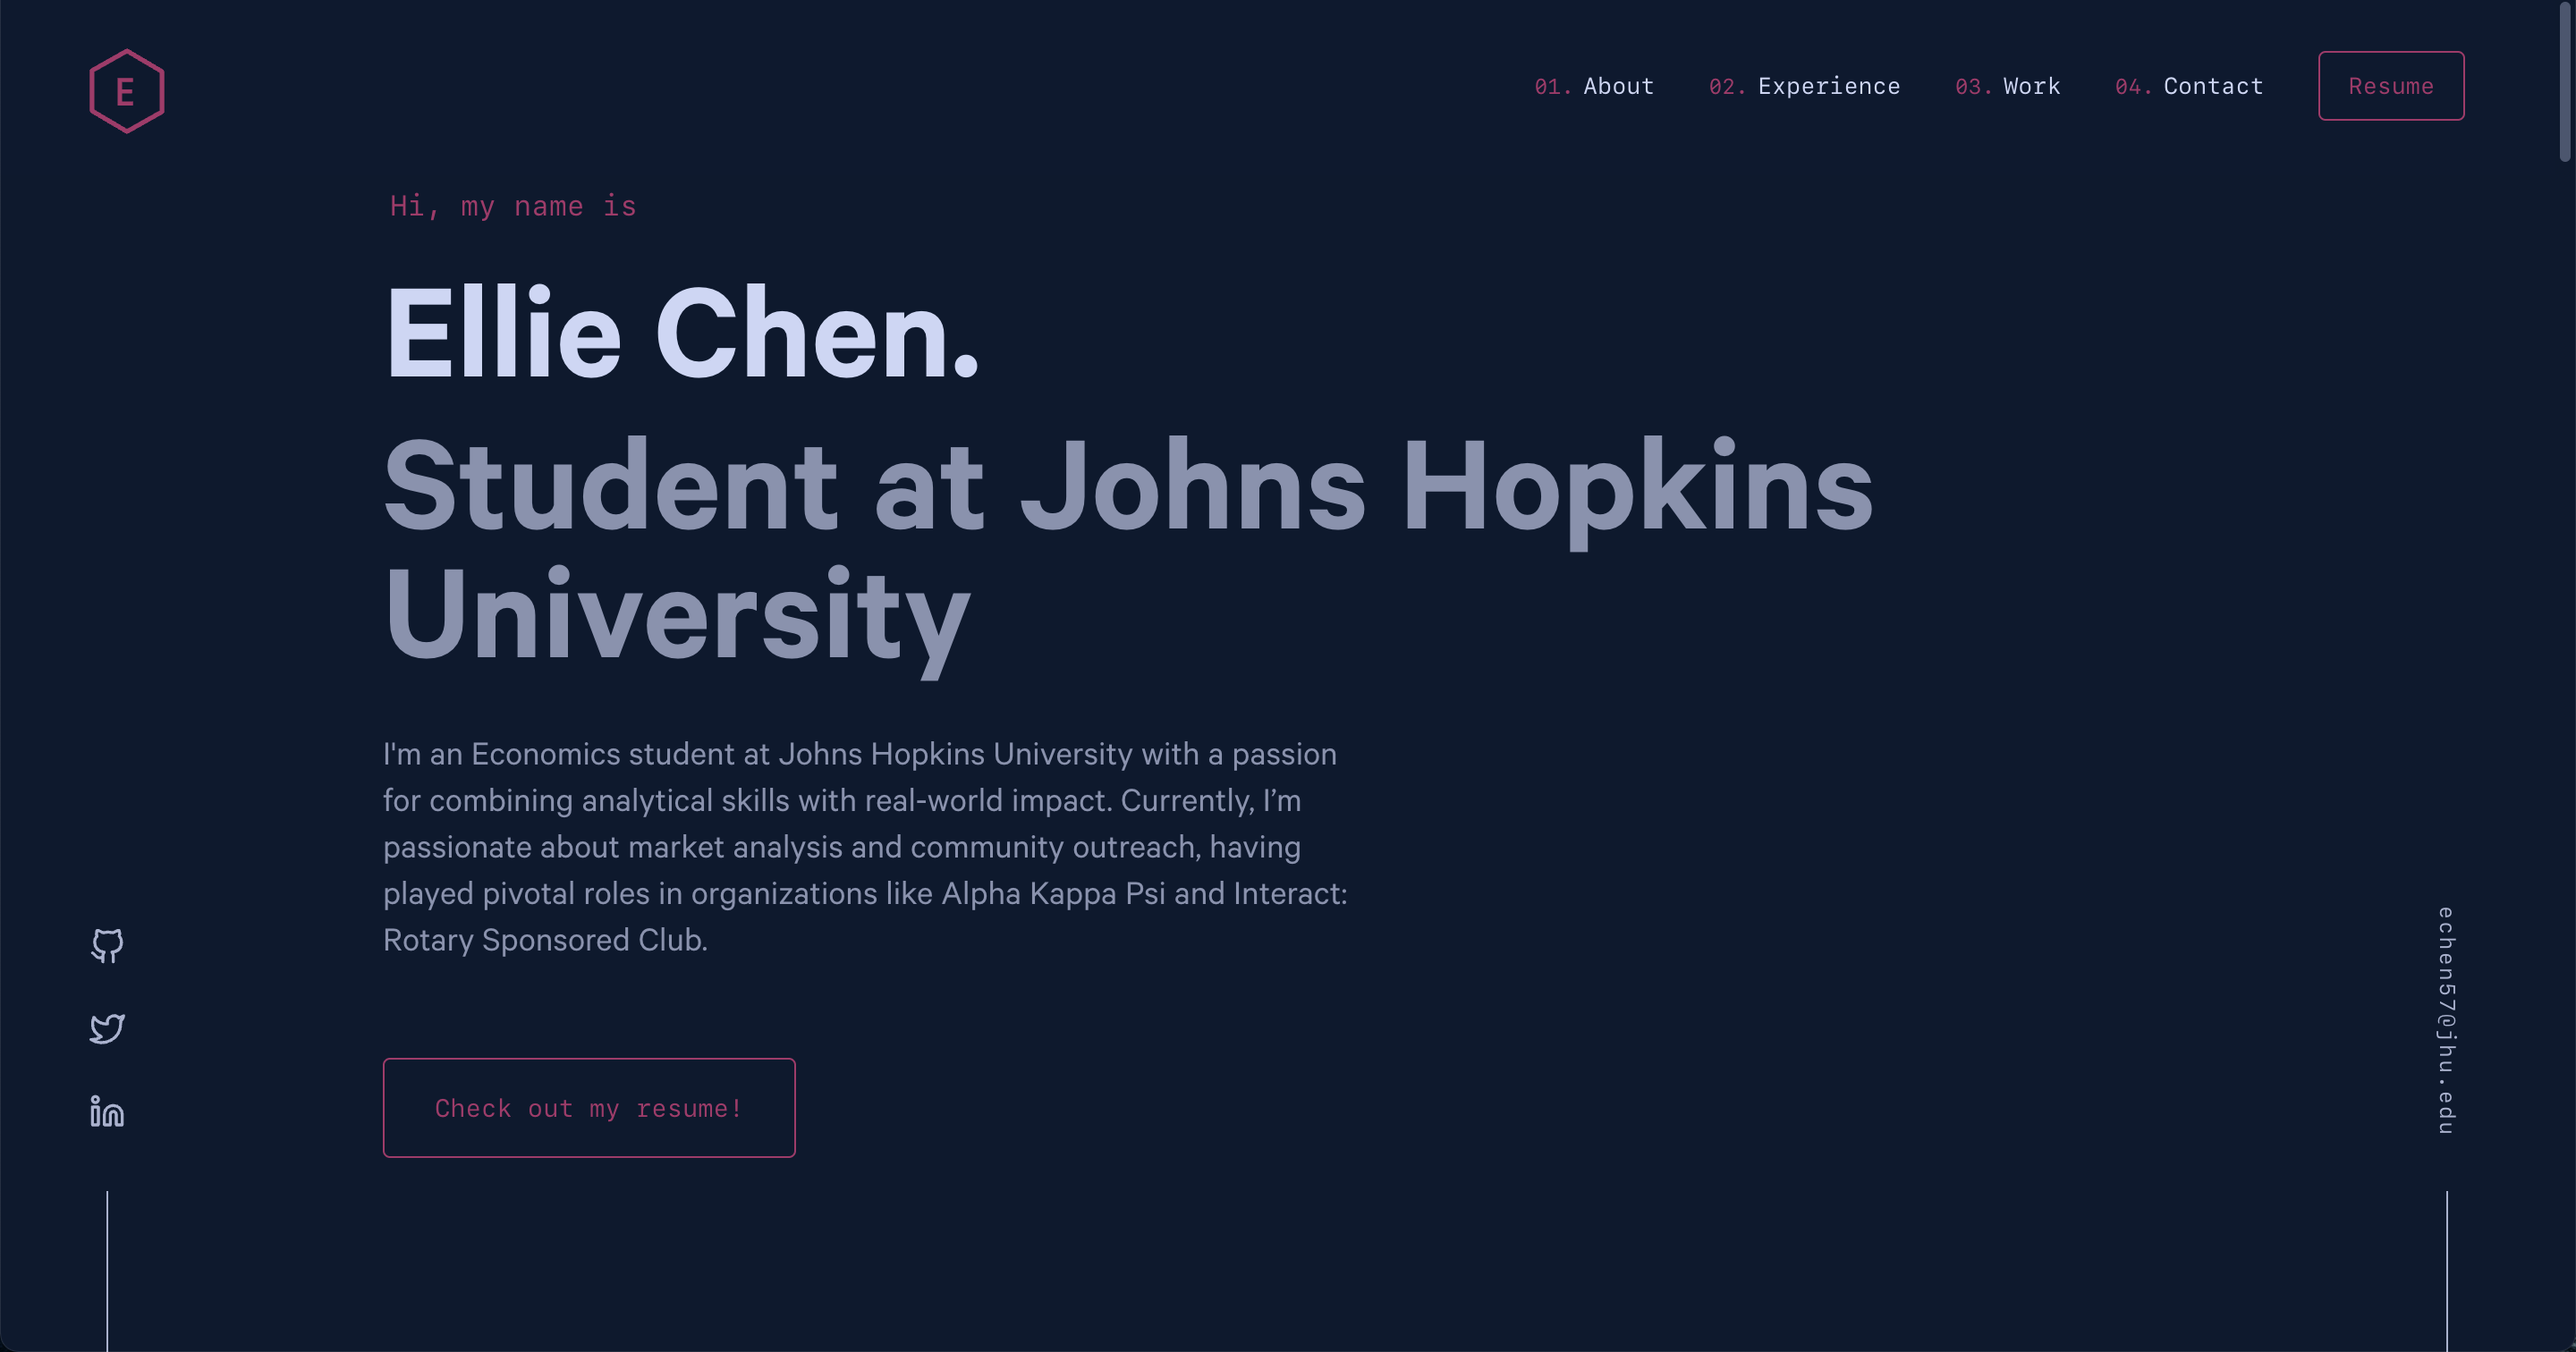
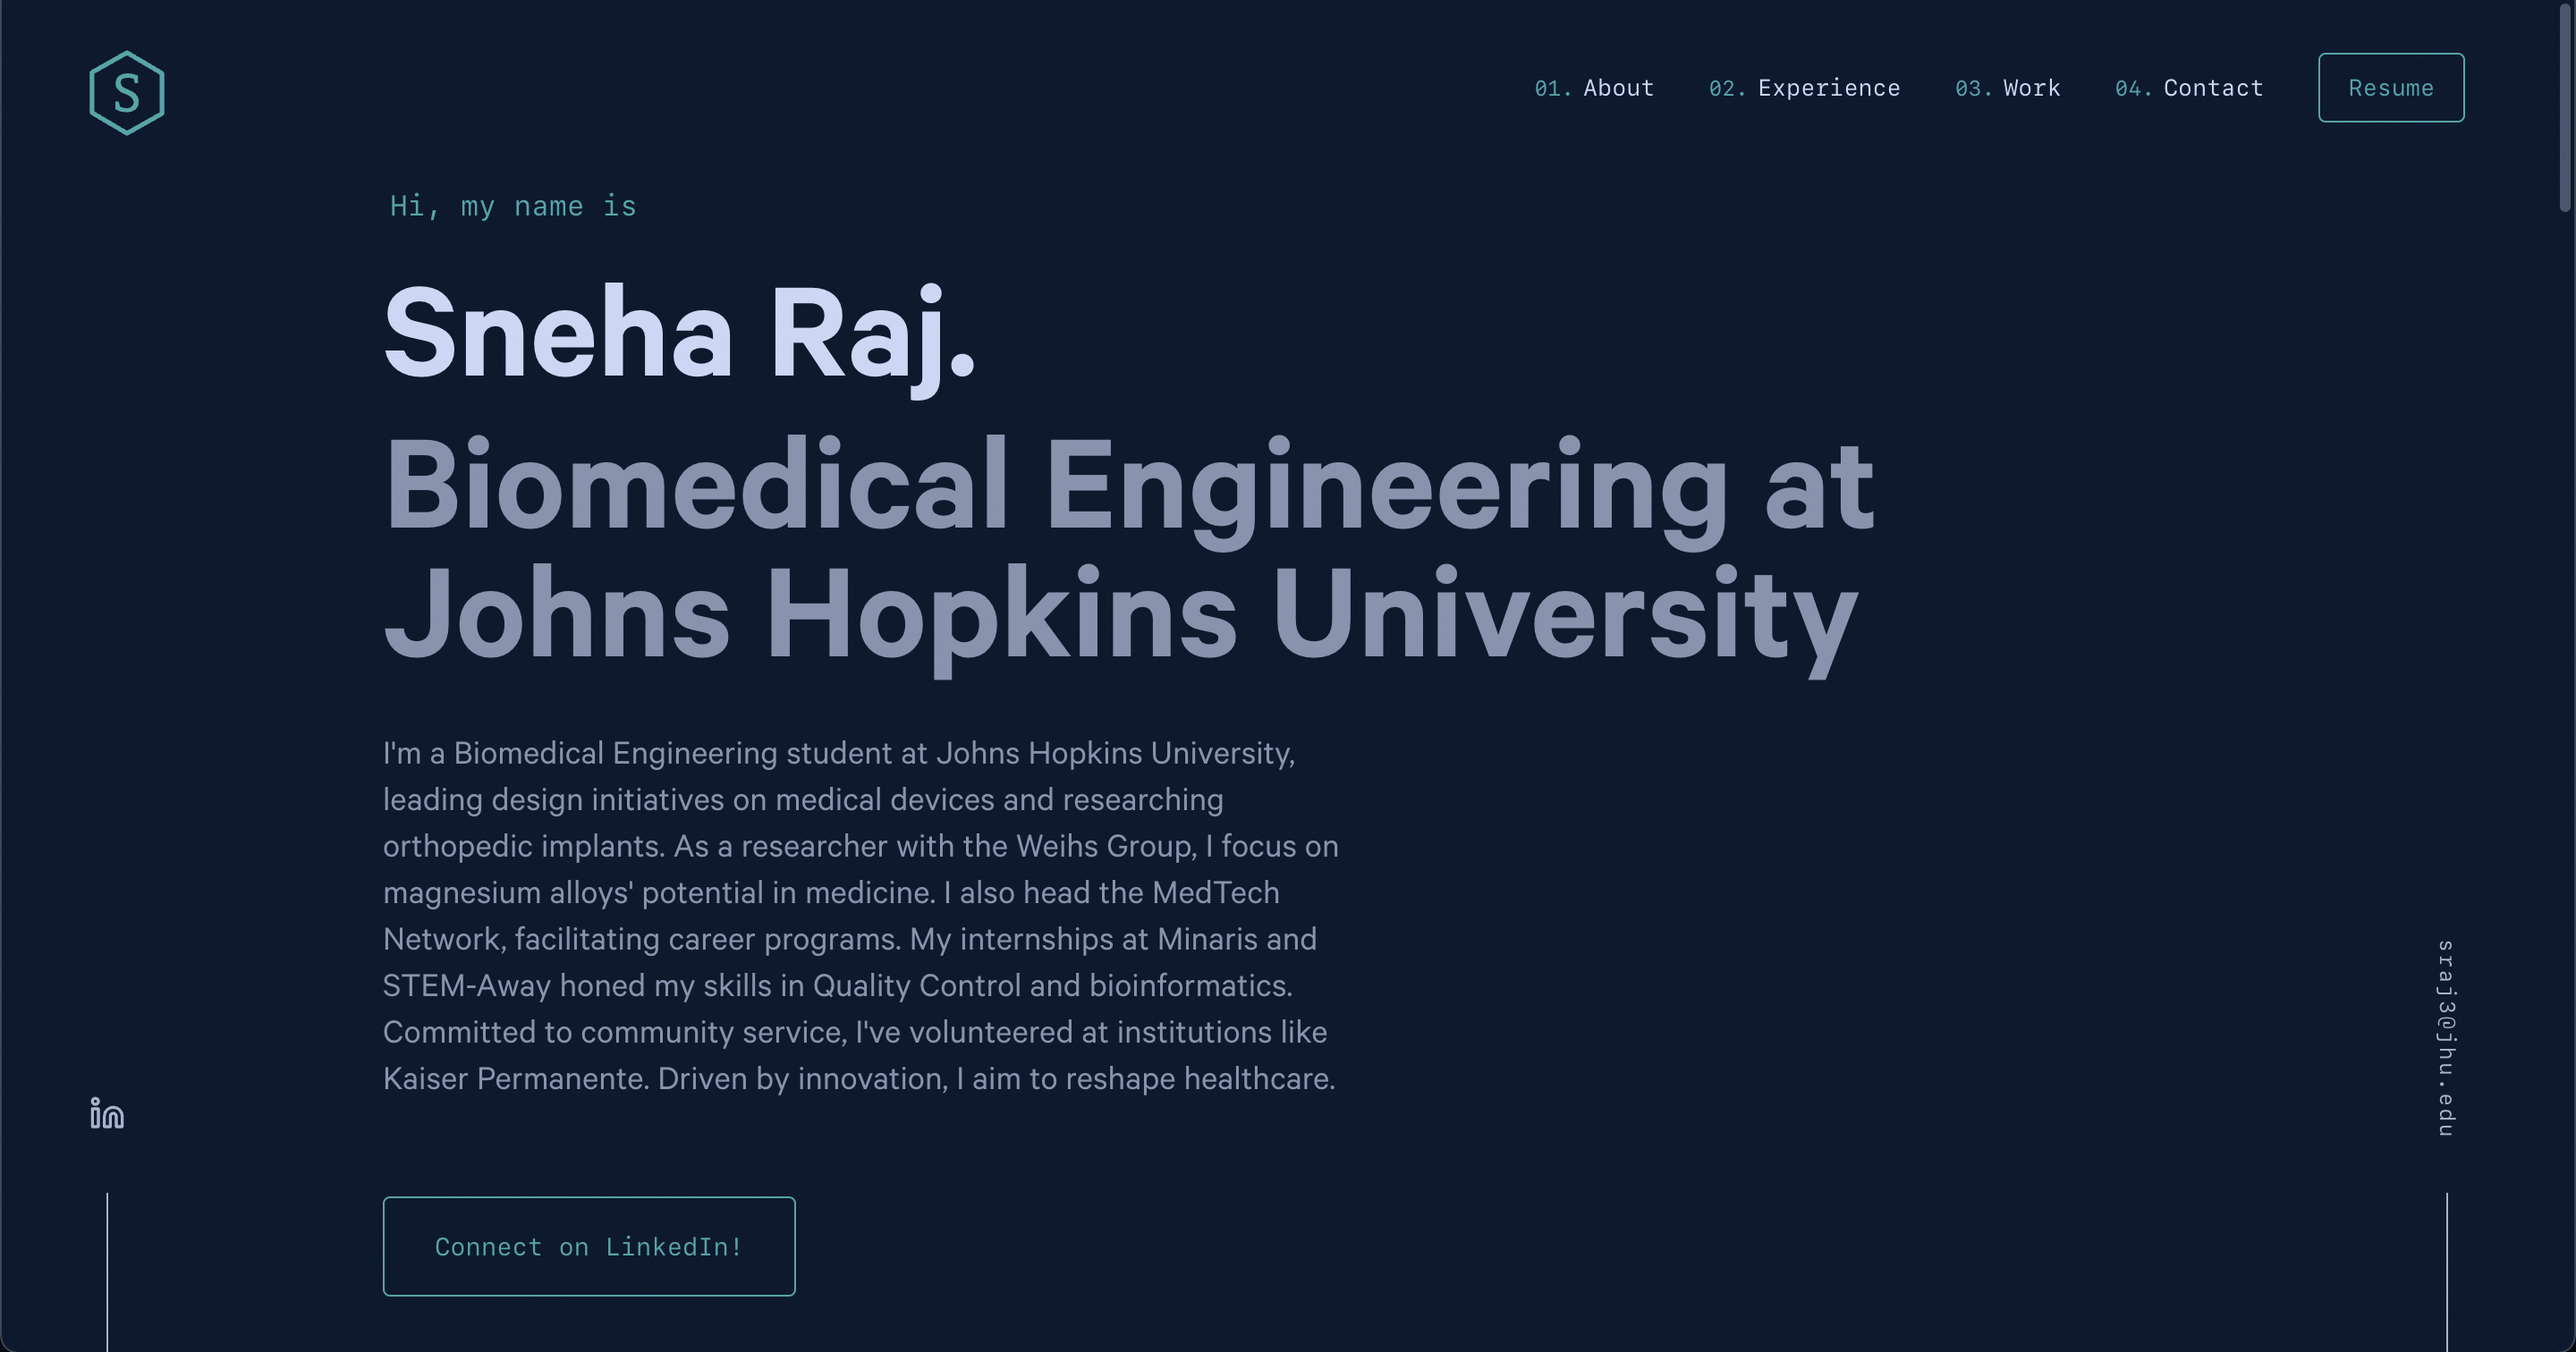
add content

diff --git a/src/components/sections/contact.js b/src/components/sections/contact.js
@@ -60,8 +60,9 @@ const Contact = () => {
       <h2 className="title">Get In Touch</h2>
 
       <p>
-        Always happy to chat! I am especially interested in positions at the intersection of
-        consulting, venture capital and marketing.
+        Always happy to chat! I am especially interested in working at the intersections of medical
+        devices, materials engineering and computational medicine. My eyes are set on the R&D
+        sector, where I plan to reshape healthcare through innovative medical technology.
       </p>
 
       <a className="email-link" href={`mailto:${email}`}>

diff --git a/content/featured/HalcyonTheme/index.md b/content/featured/HalcyonTheme/index.md
@@ -1,12 +1,13 @@
 ---
 date: '1'
-title: 'National Alliance on Mental Illness'
-cover: './mentalhealth.png'
-external: 'https://docs.google.com/presentation/d/15JeDU_m9cIRlvE11OnUwY9xqiSCTFCOnvp0ORbigYdA/edit#slide=id.g124b677c3f8_0_221'
+title: 'Weihs Research Group'
+cover: './demo.png'
+external: 'https://www.linkedin.com/in/snehamraj/overlay/1635532375778/single-media-viewer/?profileId=ACoAAC1ILO4B5Eqn5tQk1VpBjJMfyDUuF8v7auM'
 tech:
-  - Consulting
-  - Advocacy
-  - Business Analysis
+  - Research & Development
+  - Corrosion Testing
+  - Tensile Strength Assessment
+  - CAD & 3D Printing
 ---
 
-Consulting [National Alliance on Mental Illness](https://www.nami.org/Home) to improve volunteer services, including the helpline, peer support/family support group and other educational resources
+Research & Development at [Weihs Research Group](https://weihsgroup.jhu.edu/): Conducting experiments on magnesium alloys for orthopedic uses, including stent fabrication and sternal closures, by assessing corrosion rates and tensile strength.

diff --git a/content/featured/SpotifyProfile/index.md b/content/featured/SpotifyProfile/index.md
@@ -1,15 +1,14 @@
 ---
 date: '2'
-title: 'Lead Free Baltimore'
+title: 'sMAP: Standard Microarray Analysis Pipeline App'
 cover: './demo.png'
-external: 'https://livejohnshopkins-my.sharepoint.com/:p:/g/personal/kpate111_jh_edu/ER78m48Ig4FBl-KV6ZDk_bwBGo8JhjL7QPSuerYqUCrp7w?rtime=MinPgyyd20g'
+external: 'https://www.biorxiv.org/content/10.1101/2022.05.27.492984v1'
 tech:
-  - Organization
-  - Volunteer Outreach
-  - Budget
+  - R Shiny
+  - Microarray Analysis
+  - Data Importation
+  - Statistics
+  - Technical Writing & Presentation
 ---
 
-To ensure the critical wellbeing of
-Baltimore’s youth, Lead Free Baltimore will
-fight to eradicate lead paint from 240 homes
-in East Baltimore over 5 years.
+Collaborated with a 12-member team on [sMAP](https://bi-stem-away.github.io/sMAP/), an R Shiny tool for student-friendly microarray analysis. Contributed to data handling and presented findings, co-authoring a detailed paper on the application's development and functionality.
